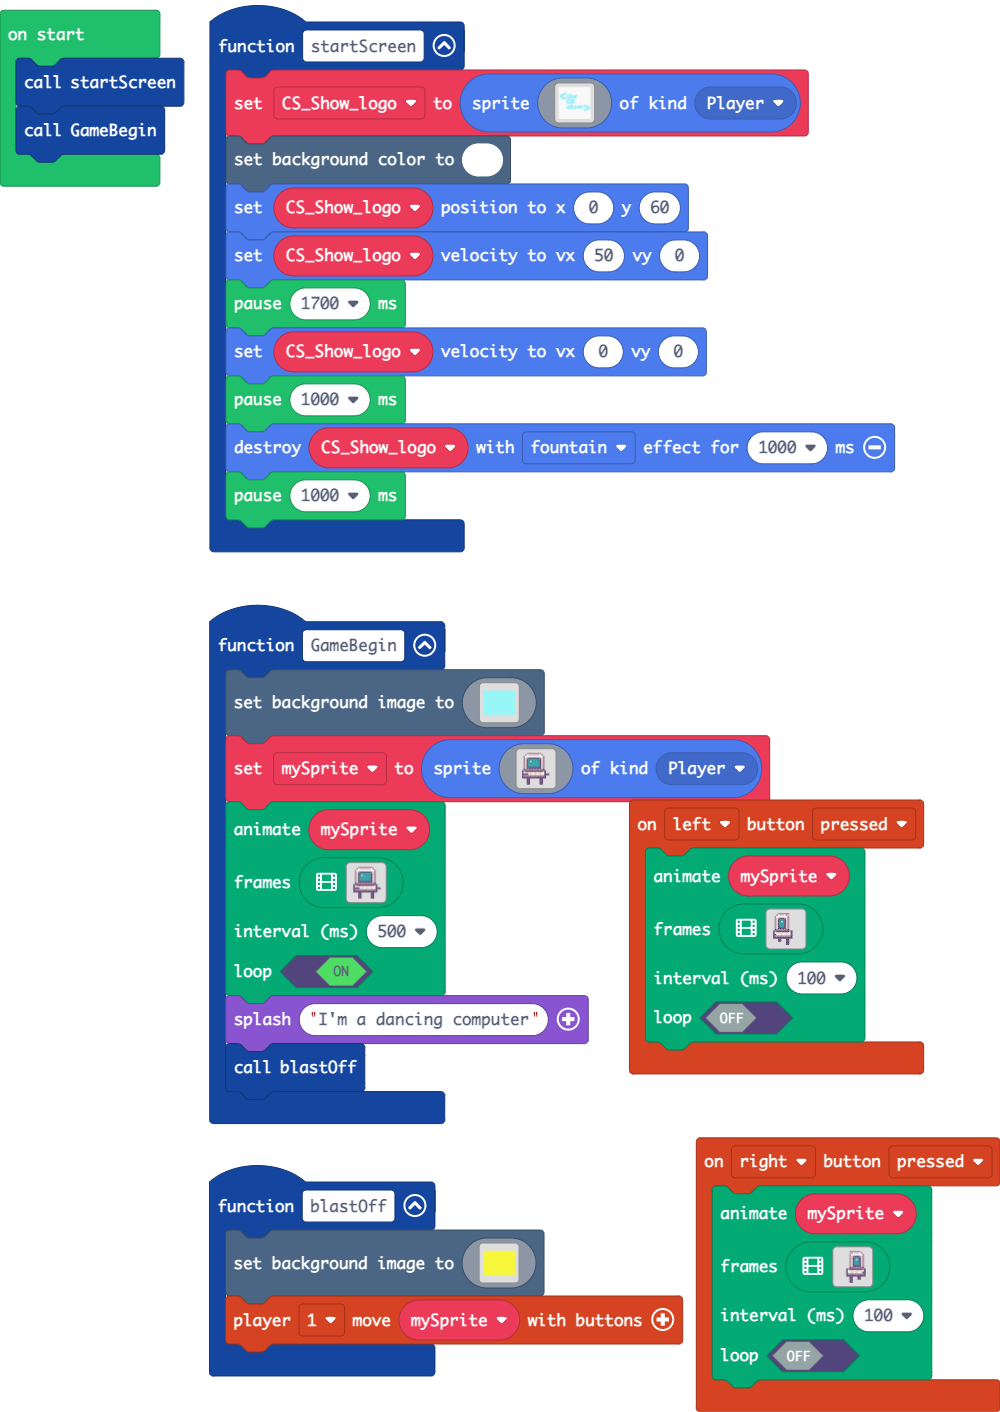
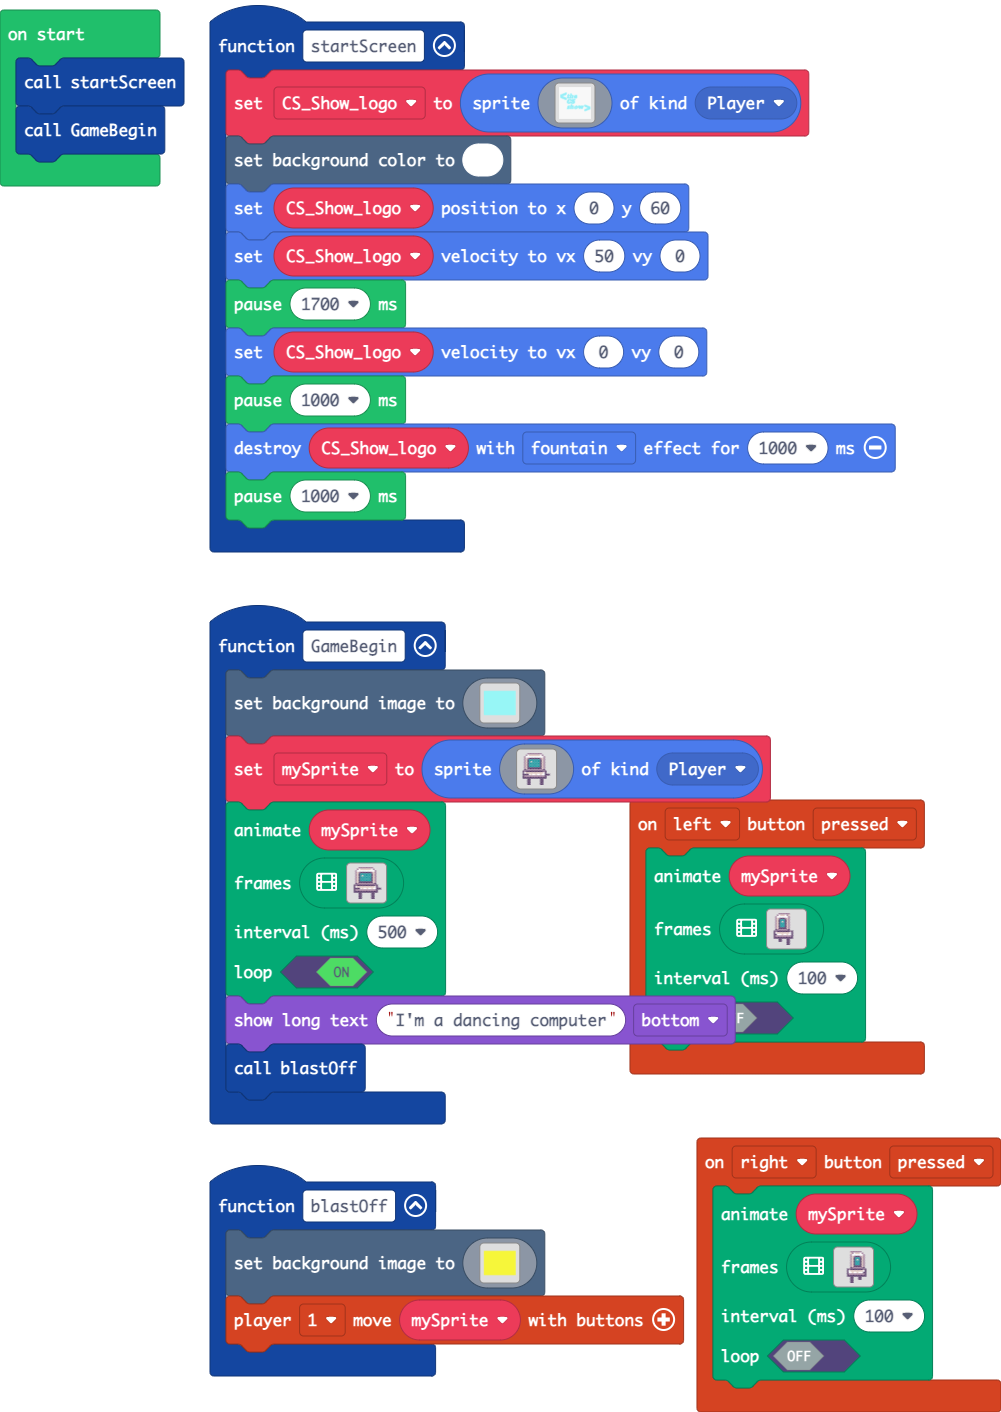
Update pxt.json, main.blocks, main.ts

diff --git a/main.ts b/main.ts
@@ -450,7 +450,7 @@ function GameBegin () {
     500,
     true
     )
-    game.splash("I'm a dancing computer")
+    game.showLongText("I'm a dancing computer", DialogLayout.Bottom)
     blastOff()
 }
 let CS_Show_logo: Sprite = null
